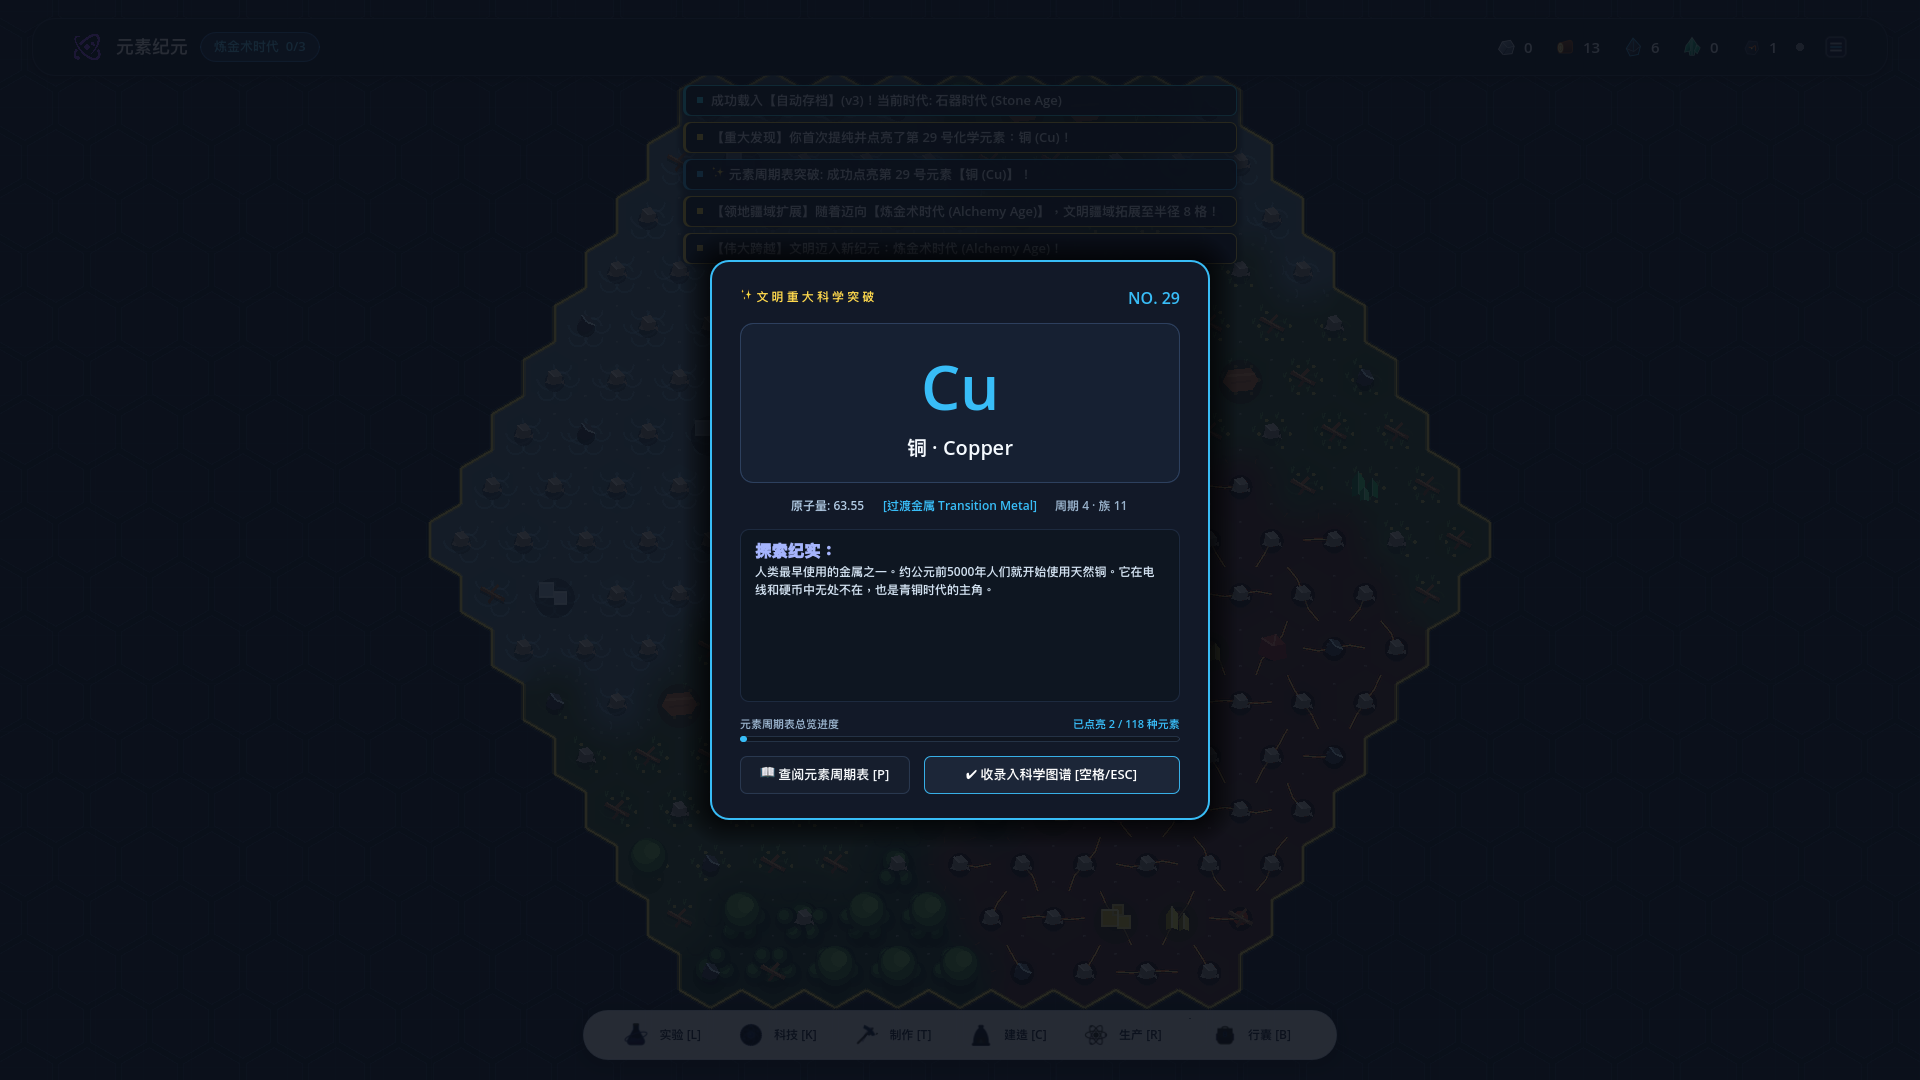
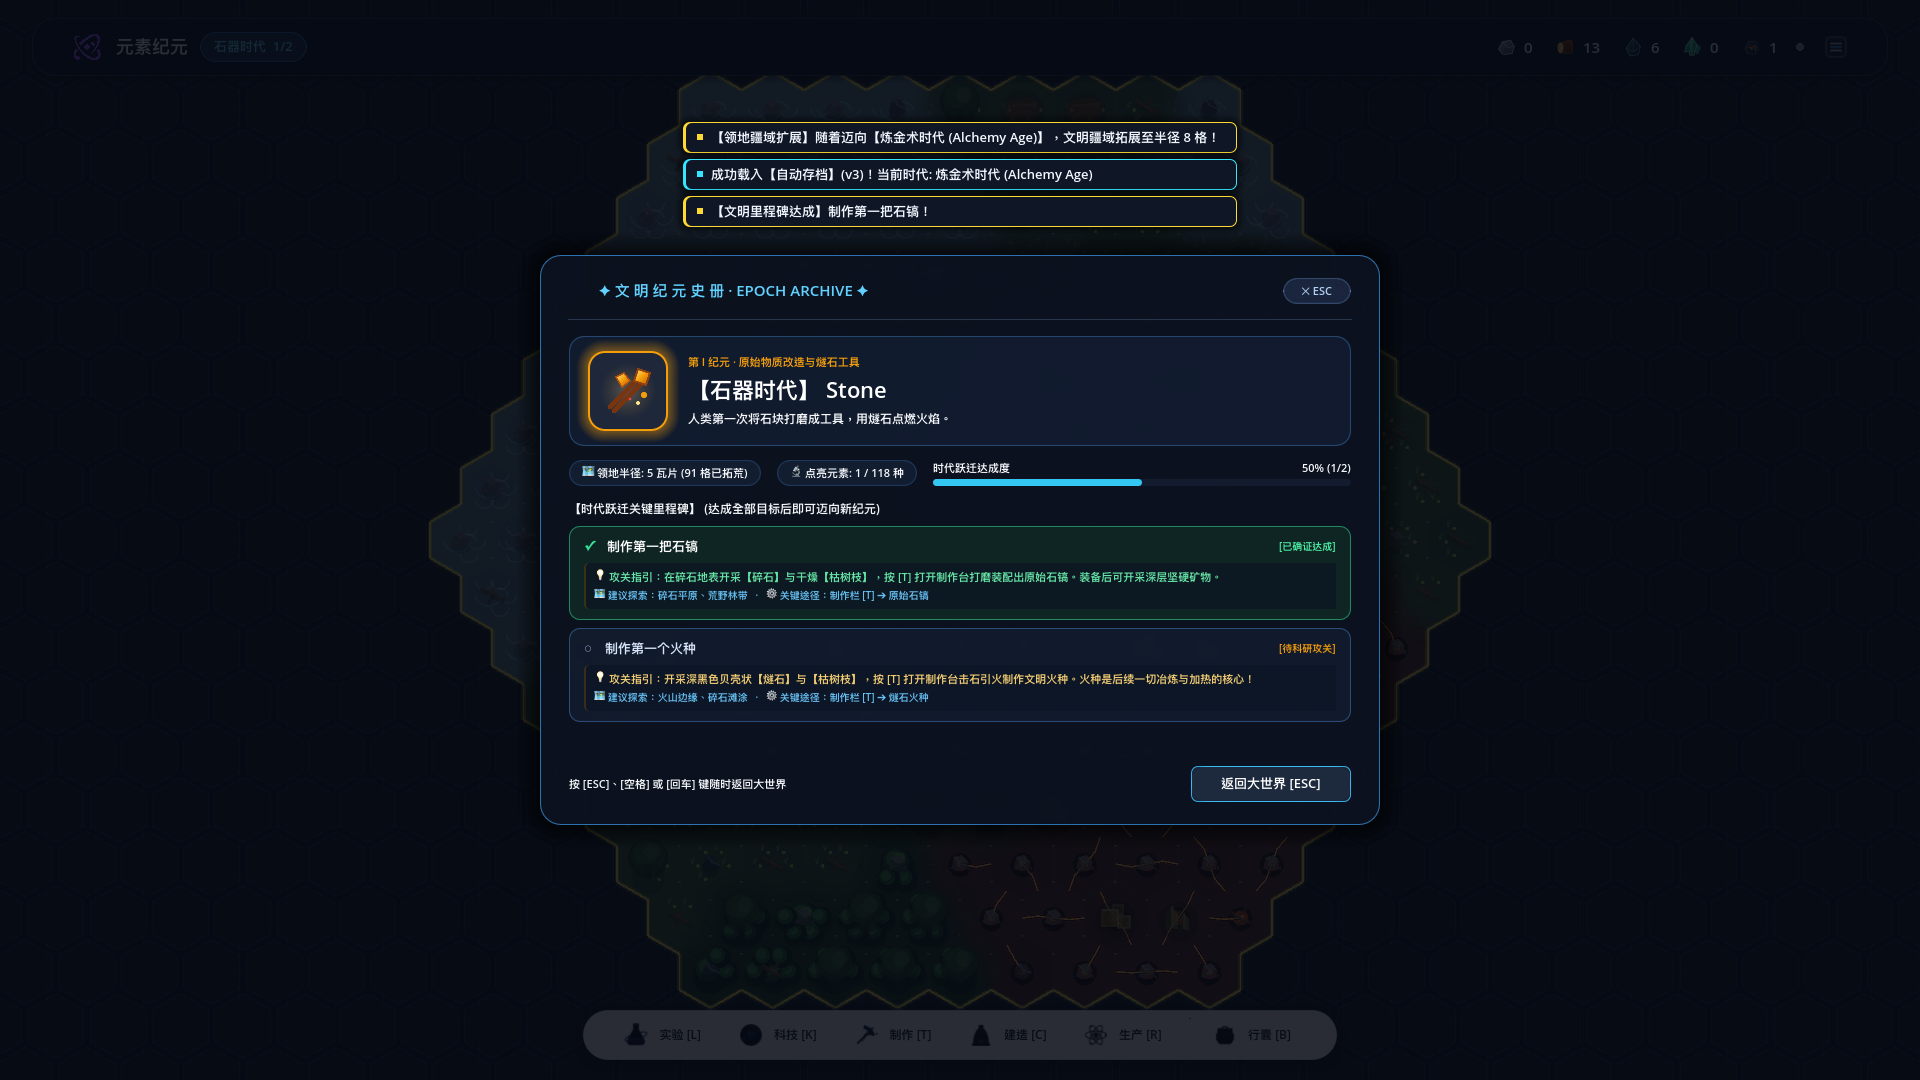
fix(ui): synchronize top bar era badge with milestone completion signal

diff --git a/AGENTS.md b/AGENTS.md
@@ -792,6 +792,21 @@
      - 提供 `[✔ 收录入科学图谱 [空格/ESC]]` 按钮，支持空格、回车、ESC 或鼠标右键快捷收起；
      - **弹窗队列保护机制**：若某元素提纯同时达成时代跃迁条件（如铜触发迈向炼金术时代），`era_transition_modal` 自动挂起并等待玩家关闭元素发现弹窗后无缝接力呈现时代升级大典，杜绝多弹窗重叠冲突。
 
+### 2.36 顶栏纪元进度勋标与里程碑达成状态实时同步响应机制 (2026-10-06)
+
+针对用户反馈「已经完成一个时代里程碑，顶栏依然显示 0/2」的数据展示不同步问题，排查并修复了信号管线断层：
+
+1. **根因分析**：
+   - 当玩家完成某项时代里程碑（如打造首把石镐 `craft_stone_pickaxe`）时，`Simulation` 正常将键值加入 `completed_milestones` 并广播了 `milestone_completed` 信号；
+   - 但在 `src/ui/hud.gd` 中，未侦听该 `milestone_completed` 信号，顶栏徽标刷新函数 `_update_era_label()` 仅在场景初次启动 `_ready()` 或跨时代升级 `_on_era_advanced()` 时才被动执行一次；
+   - 导致大世界顶栏的 `era_badge_btn` 长期滞留在旧状态（如 `石器时代  0/2`），而点击弹出的史册弹窗由于每次展开均现场读取数据，反而显示正确的 `1/2 (50%)`，造成两处 UI 矛盾。
+
+2. **多层即时同步与微动效强化 (`src/ui/hud.gd`, `src/ui/era_transition_modal.gd`, `src/scenes/world.gd`)**：
+   - **全局信号直连**：`hud.gd` 挂载 `GameState.milestone_completed.connect(_on_milestone_completed)`；
+   - **顶栏状态与动态微动效**：当里程碑达成时，即刻重新统计 `done_ms` / `total_ms` 并刷新文本为 `石器时代  1/2`，并对勋标施加弹性缩放微动画 (`scale 1.12 -> 1.0`) 与悬停提示更新（`✓ 制作第一把石镐`）；
+   - **纪元史册弹窗实时联动**：`era_transition_modal.gd` 同样侦听 `milestone_completed`，若玩家在弹窗开启状态下后台达成任务，弹窗内进度条与里程碑卡片瞬时更新为绿色完成态；
+   - **读档后强制重校验**：在 `world.gd` 从槽位加载进度后，增加对 `hud._update_era_label()` 的主动触发，杜绝读档后数值迟滞。
+
 ---
 
 ## 3. 架构设计规范与数据流动
